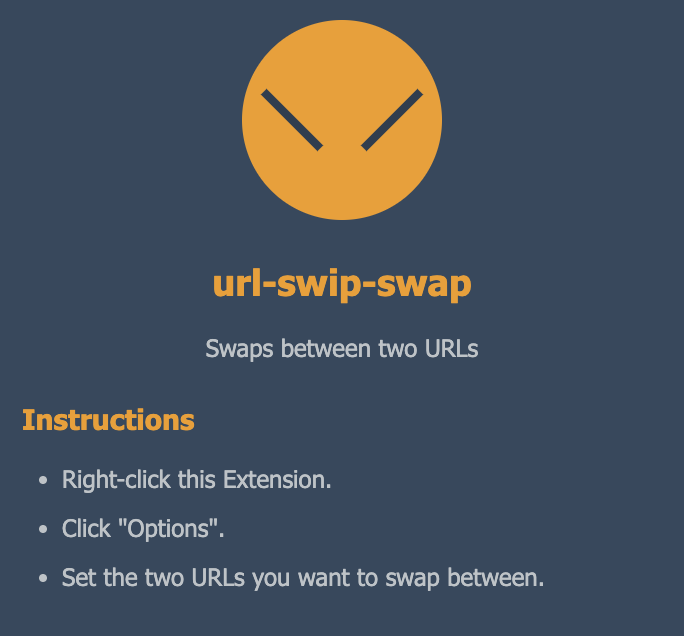
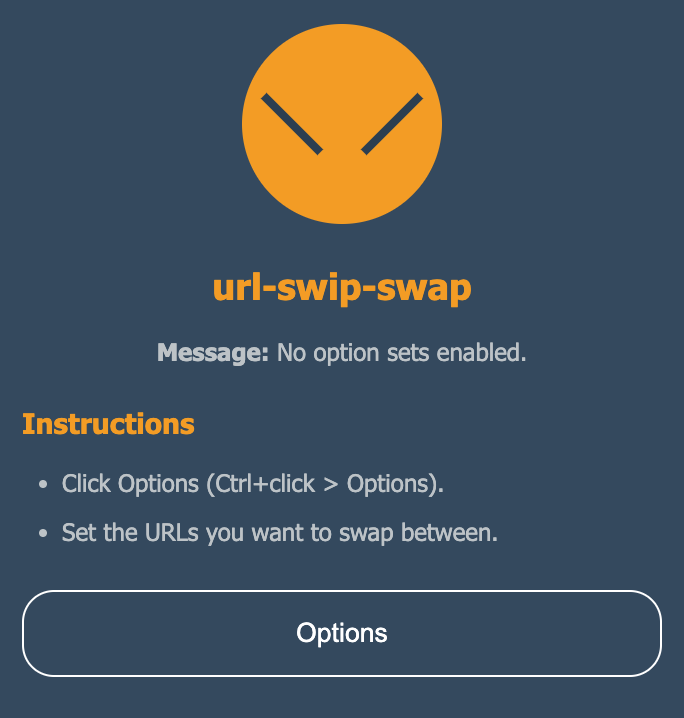
adds button on main page

diff --git a/src/scripts/convertUrl.js b/src/scripts/convertUrl.js
@@ -1,20 +1,19 @@
 const root = document.getElementById('root');
+const messageEl = document.getElementById('message');
+const titleEl = document.getElementById('title')
 
-function renderMessage(message) {
-    root.innerHTML = `
-        <div class="container">
-            <div class="logo"></div>
-        </div>
-        <h2>url-swip-swap</h2>
-        <p>Swaps between two URLs</p>
-        <p><b>${message}</b></p>
-        <h3>Instructions</h3>
-        <ul>
-            <li>Right-click this Extension.</li>
-            <li>Click "Options".</li>
-            <li>Set the two URLs you want to swap between.</li>
-        </ul>
-    `;
+// Opens options page when the button is clicked
+document.querySelector('#go-to-options').addEventListener('click', function () {
+  if (chrome.runtime.openOptionsPage) {
+    chrome.runtime.openOptionsPage();
+  } else {
+    window.open(chrome.runtime.getURL('options.html'));
+  }
+});
+
+function renderMessage({ title, message }) {
+  title && (titleEl.textContent = title);
+  message && (messageEl.innerHTML = message);
 }
 
 // Get the current tab URL and the enabled option sets. If it is a valid URL set, swap the URL.
@@ -24,8 +23,8 @@ chrome.tabs.query({ active: true, currentWindow: true }, function (tabs) {
         const checkedSets = optionSets?.filter(({ checked }) => checked);
 
         if (!checkedSets || checkedSets?.length === 0) {
-            renderMessage('No option sets enabled.');
-            return;
+          renderMessage({ message: 'No option sets enabled.' });
+          return;
         }
 
         const invalidSets = checkedSets.filter(
@@ -33,9 +32,10 @@ chrome.tabs.query({ active: true, currentWindow: true }, function (tabs) {
         );
 
         if (invalidSets.length > 0) {
-            renderMessage('Please configure all enabled option sets.');
-            return;
+          renderMessage({ message: 'Please configure all enabled option sets.' });
+          return;
         }
+
 
         updateTabUrl(currentTab, checkedSets);
     });
@@ -45,12 +45,11 @@ chrome.tabs.query({ active: true, currentWindow: true }, function (tabs) {
 const updateTabUrl = (currentTab, checkedSets) => {
     const swapUrl = (newUrl) => {
         chrome.tabs.update({ url: newUrl }).catch((error) => {
-            renderMessage(`ERROR: ${error.message}.`);
+          renderMessage({ title: 'Error:', message: `ERROR: ${error.message}.` });
         });
     };
 
     let invalidUrl = true;
-
     for (const { testUrl, devUrl } of checkedSets) {
         if (currentTab.includes(testUrl) || currentTab.includes(devUrl)) {
             invalidUrl = false;
@@ -67,6 +66,8 @@ const updateTabUrl = (currentTab, checkedSets) => {
     }
 
     if (invalidUrl) {
-        renderMessage('ERROR: Not a configured URL set.');
+      renderMessage({ message: 'No configuration set for this URL.' });
+    } else {
+      root.innerHTML = 'Loading...';
     }
 };

diff --git a/src/index.html b/src/index.html
@@ -5,7 +5,23 @@
     <link rel="stylesheet" type="text/css" href="styles/main.css">
 </head>
 <body>
-    <div id="root">Loading...</div>
+    <div id="root">
+       <div class="container">
+            <div class="logo"></div>
+        </div>
+        <h2>url-swip-swap</h2>
+        <div>
+          <p>
+            <b id="title">Message:</b> <span id="message"></span>
+          </p>
+        </div>
+        <h3>Instructions</h3>
+        <ul>
+            <li>Click Options (Ctrl+click > Options).</li>
+            <li>Set the URLs you want to swap between.</li>
+        </ul>
+        <button id="go-to-options">Options</button>
+    </div>
     <script src="scripts/convertUrl.js"></script>
 </body>
 </html>

diff --git a/src/styles/main.css b/src/styles/main.css
@@ -87,3 +87,21 @@ img {
     right: 5%;
     transform: translateY(-50%) rotate(-45deg);
 }
+
+button {
+width: 100%;
+    padding: 13px;
+    cursor: pointer;
+    color: white;
+    background-color: transparent;
+    border-radius: 16px;
+    outline: none;
+    margin: 10px 0;
+    border: 1px solid;
+    transition: all .15s ease-in-out;
+}
+
+button:hover {
+   background-color: white;
+   color: black
+}

diff --git a/README.md b/README.md
@@ -1,6 +1,6 @@
 # url-swip-swap Chrome extension
 
-This is a super simple Chrome extension that converts the current tab's URL from one environment to another while preserving the full URL.
+A super simple Chrome extension that allows for effortlessly switching between different URLs while preserving parameters with just a click, perfect for transitioning between testing and development environments or any two specified URLs.
 
 <div style="text-align: center; margin: 15px 0">
     <img src="src/assets/options-screen.png" height="250" />
@@ -17,8 +17,9 @@ This is a super simple Chrome extension that converts the current tab's URL from
   - Messaging will be shown indicating the error thrown by chrome.
 
 ## Usage
-- Right click the extension.
-- Select "Options".
+- Click Options
+  - Right click the extension.
+  - Select "Options".
 - Enter the URLs you want to swap.
 - Click the checkbox to enable each set.
 - Settings are auto-saved.

diff --git a/CHANGELOG.md b/CHANGELOG.md
@@ -2,6 +2,13 @@
 
 All notable changes to this project will be documented in this file.
 
+## [url-swip-swap@0.1.4] - 2024-05-05
+
+### Changed
+
+- Added button to open Options page from extension.
+- Updated messaging on extension.
+
 ## [url-swip-swap@0.1.4] - 2024-04-24
 
 ### Fixed
